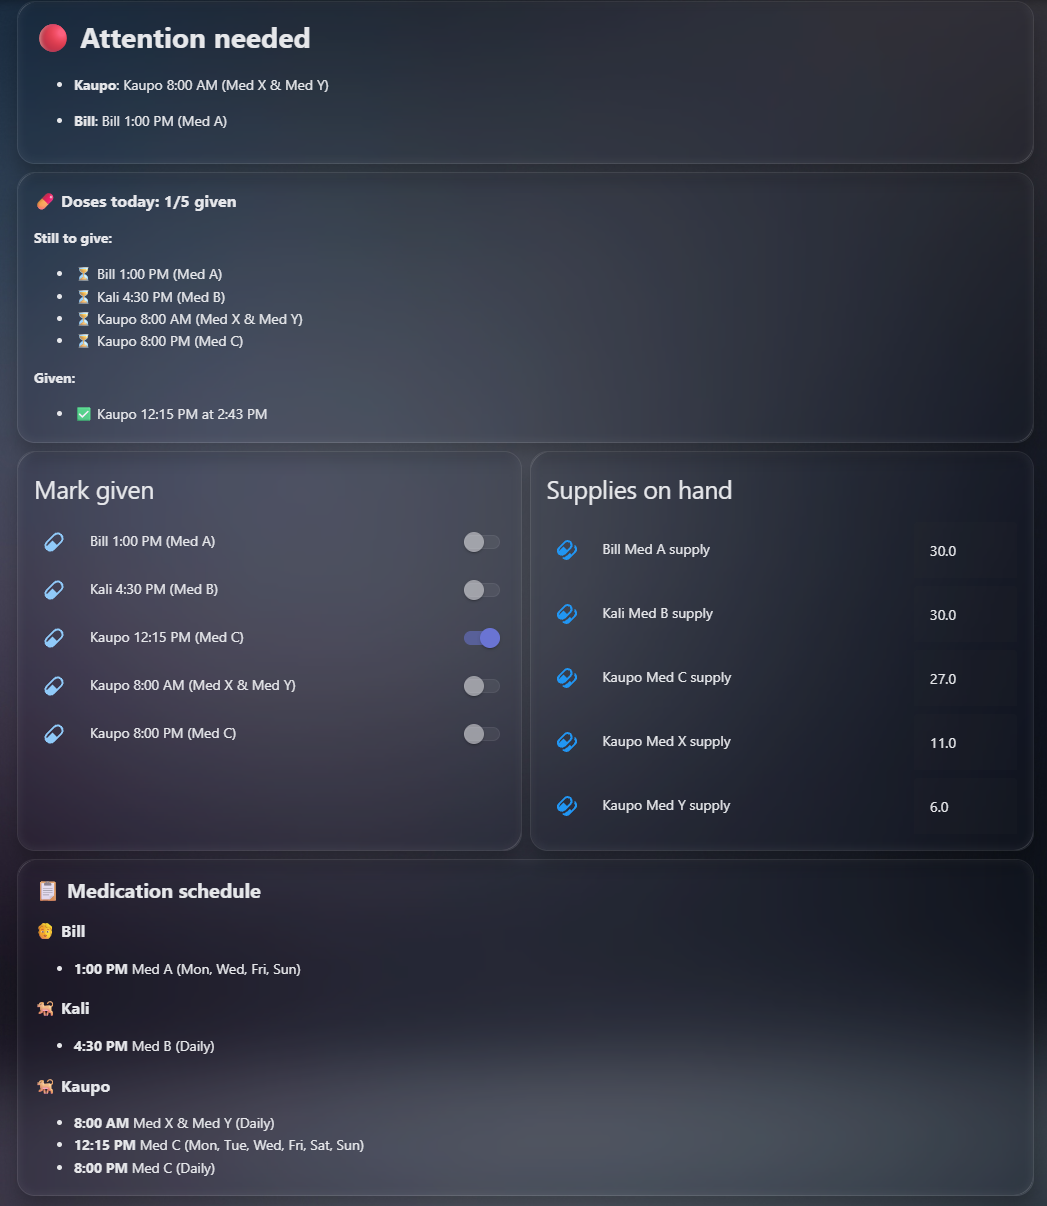
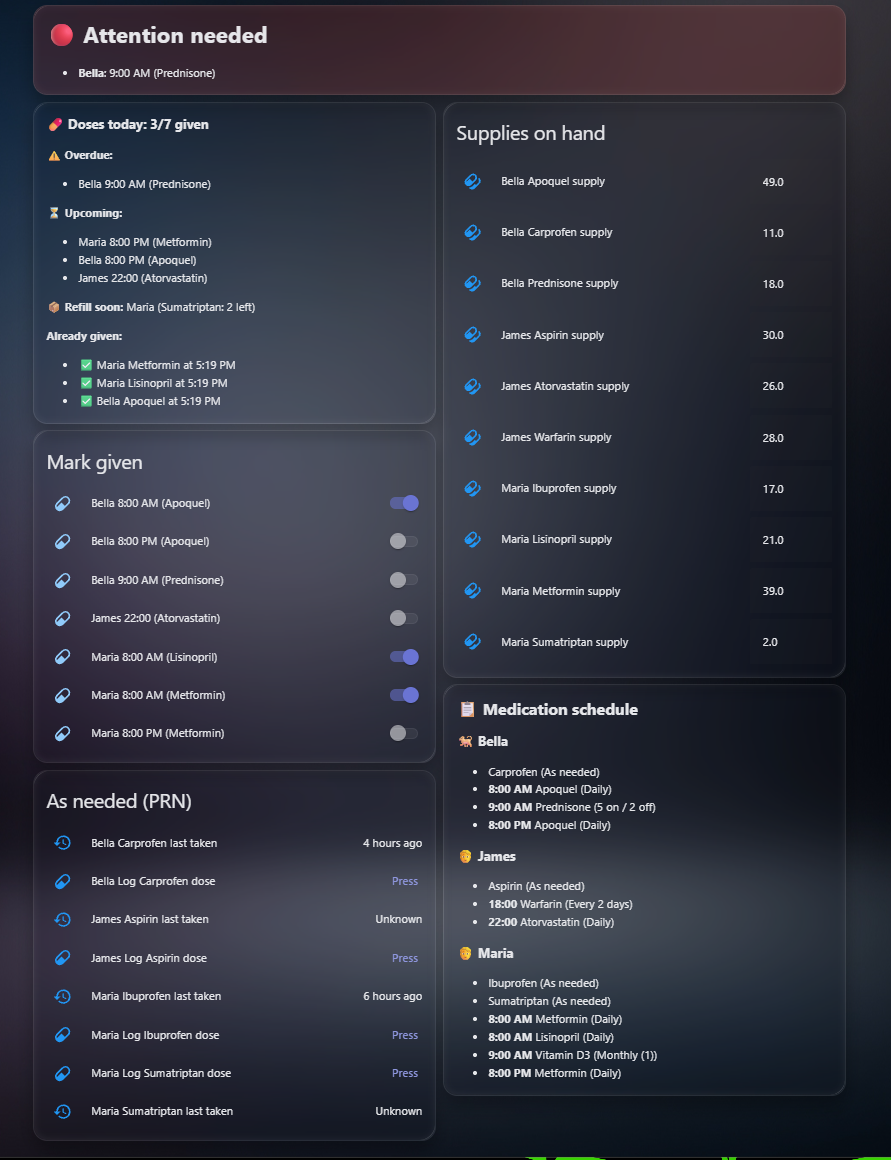
Refresh README dashboard screenshots
Update the hero and attention-needed screenshots, add a dedicated
single-column layout screenshot (dashboard-1col.png), and drop the old
combined dashboardupdates.png. Bump the cache-busting query on the two
updated raw-hosted images so GitHub serves the new versions.

diff --git a/README.md b/README.md
@@ -17,7 +17,7 @@ This is the UI-driven sibling of the YAML package at
 Prefer pure YAML? Use that one. Want point-and-click dose management with
 auto-created entities? Use this.
 
-![Medication Reminder dashboard](https://raw.githubusercontent.com/magikh0e/ha-medication-reminder-hacs/main/dashboard.png?v=2)
+![Medication Reminder dashboard](https://raw.githubusercontent.com/magikh0e/ha-medication-reminder-hacs/main/dashboard.png?v=3)
 
 > ⚠️ **Alpha software.** This is new and not yet widely tested. Validate it on
 > your own Home Assistant before relying on it, and keep a backup reminder method
@@ -169,9 +169,9 @@ same cards out as a full-width status banner above two columns, sized to fill a
 2-column-wide [Sections](https://www.home-assistant.io/dashboards/sections/)
 view section: add a section, set its width to 2, and paste it as a manual card.
 
-![Medication Reminder dashboard layouts](dashboardupdates.png)
+![Single-column dashboard layout](dashboard-1col.png)
 
-*The auto-discovering layout, single-column and the optional two-column variant.*
+*The auto-discovering single-column layout ([`lovelace-card.yaml`](lovelace-card.yaml)); the wide two-column variant is described just above.*
 
 ### Status panel (red/green, glanceable)
 
@@ -179,7 +179,7 @@ A simple "all OK / attention needed" panel for the top of a dashboard, driven by
 the `needs_attention` sensors. Green when nothing is overdue, red (with who and
 what) when something needs investigating. Native card, no HACS needed:
 
-![Attention needed state](https://raw.githubusercontent.com/magikh0e/ha-medication-reminder-hacs/main/dashboard-attention-needed.png?v=2)
+![Attention needed state](https://raw.githubusercontent.com/magikh0e/ha-medication-reminder-hacs/main/dashboard-attention-needed.png?v=3)
 
 ```yaml
 type: markdown